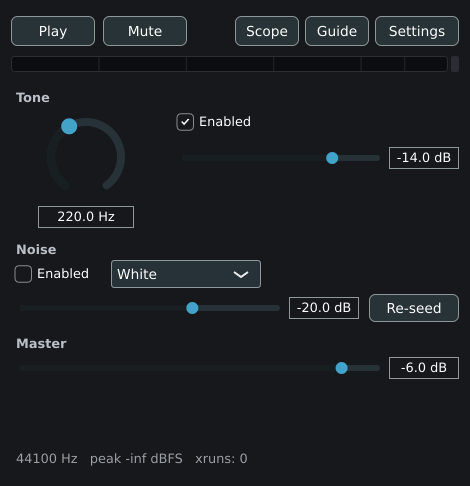
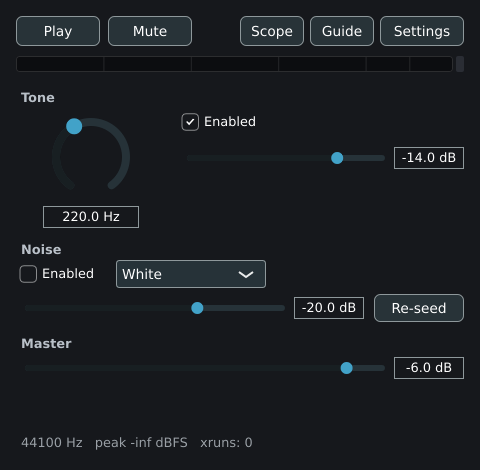
refactor(gui): oscilloscope collapses into the main window
Instead of a detached Scope window: the Scope button now toggles the
oscilloscope in place between the toolbar and the meter, and the window
grows/shrinks (setContentComponentSize) so nothing overlaps. The expanded state
persists. Removes gui::ScopeView; the Oscilloscope stops its timer while hidden.

diff --git a/src/app/MainComponent.cpp b/src/app/MainComponent.cpp
@@ -4,7 +4,6 @@
 #include "dsp/NoiseColour.h"
 #include "gui/DetachedWindow.h"
 #include "gui/GuideView.h"
-#include "gui/ScopeView.h"
 #include "gui/SettingsComponent.h"
 
 #include <initializer_list>
@@ -23,7 +22,11 @@ constexpr auto kNoiseEnabledKey = "noiseEnabled";
 constexpr auto kNoiseColourKey = "noiseColour";
 constexpr auto kMasterGainKey = "masterGainDb";
 constexpr auto kLimiterKey = "limiterEnabled";
+constexpr auto kScopeExpandedKey = "scopeExpanded";
 constexpr auto kAudioStateKey = "audioDeviceState";
+
+constexpr int kBaseHeight = 470;       // window height with the scope collapsed
+constexpr int kScopeBlockHeight = 116; // extra height when the scope is expanded (100 + gap)
 
 void styleHeading(juce::Label& label, const juce::String& text)
 {
@@ -42,6 +45,7 @@ void configureGainSlider(juce::Slider& slider)
 } // namespace
 
 MainComponent::MainComponent()
+    : oscilloscope_([this](float* dst, int count) { engine_.readScope(dst, count); })
 {
     juce::PropertiesFile::Options options;
     options.applicationName = "Noisefield";
@@ -67,9 +71,10 @@ MainComponent::MainComponent()
         masterMuteButton_.setButtonText(muted ? "Muted" : "Mute");
     };
 
+    scopeButton_.setClickingTogglesState(true);
     scopeButton_.onClick = [this]
     {
-        openScopeWindow();
+        setScopeExpanded(scopeButton_.getToggleState());
     };
     guideButton_.onClick = [this]
     {
@@ -156,6 +161,7 @@ MainComponent::MainComponent()
                                                                       &scopeButton_,
                                                                       &guideButton_,
                                                                       &settingsButton_,
+                                                                      &oscilloscope_,
                                                                       &meter_,
                                                                       &toneHeading_,
                                                                       &toneEnableButton_,
@@ -171,7 +177,10 @@ MainComponent::MainComponent()
                                                                       &statusLabel_})
         addAndMakeVisible(c);
 
-    setSize(470, 486);
+    oscilloscope_.setVisible(scopeExpanded_);
+    scopeButton_.setToggleState(scopeExpanded_, juce::dontSendNotification);
+
+    setSize(480, kBaseHeight + (scopeExpanded_ ? kScopeBlockHeight : 0));
     startTimerHz(30);
 }
 
@@ -180,9 +189,21 @@ MainComponent::~MainComponent()
     stopTimer();
     settingsWindow_.reset();
     guideWindow_.reset();
-    scopeWindow_.reset();
     saveSettings();
     engine_.shutdown();
+}
+
+void MainComponent::setScopeExpanded(bool expanded)
+{
+    scopeExpanded_ = expanded;
+    oscilloscope_.setVisible(expanded);
+    scopeButton_.setToggleState(expanded, juce::dontSendNotification);
+
+    const int target = kBaseHeight + (expanded ? kScopeBlockHeight : 0);
+    if (auto* window = findParentComponentOfClass<juce::ResizableWindow>())
+        window->setContentComponentSize(getWidth(), target);
+    else
+        setSize(getWidth(), target);
 }
 
 void MainComponent::openSettingsWindow()
@@ -209,19 +230,6 @@ void MainComponent::openGuideWindow()
         "Noisefield — Guide", std::make_unique<gui::GuideView>(), [this] { guideWindow_.reset(); });
 }
 
-void MainComponent::openScopeWindow()
-{
-    if (scopeWindow_ != nullptr)
-    {
-        scopeWindow_->toFront(true);
-        return;
-    }
-    auto view = std::make_unique<gui::ScopeView>([this](float* dst, int count)
-                                                 { engine_.readScope(dst, count); });
-    scopeWindow_ = std::make_unique<gui::DetachedWindow>(
-        "Noisefield — Scope", std::move(view), [this] { scopeWindow_.reset(); });
-}
-
 void MainComponent::loadSettings()
 {
     auto* store = appProperties_.getUserSettings();
@@ -246,6 +254,8 @@ void MainComponent::loadSettings()
 
     params().limiterEnabled.store(store->getBoolValue(kLimiterKey, params().limiterEnabled.load()),
                                   std::memory_order_relaxed);
+
+    scopeExpanded_ = store->getBoolValue(kScopeExpandedKey, false);
 }
 
 void MainComponent::saveSettings()
@@ -260,6 +270,7 @@ void MainComponent::saveSettings()
     store->setValue(kNoiseColourKey, noiseColourBox_.getSelectedId() - 1);
     store->setValue(kMasterGainKey, masterGainSlider_.getValue());
     store->setValue(kLimiterKey, params().limiterEnabled.load(std::memory_order_relaxed));
+    store->setValue(kScopeExpandedKey, scopeExpanded_);
 
     if (auto stateXml = engine_.deviceManager().createStateXml())
         store->setValue(kAudioStateKey, stateXml.get());
@@ -318,6 +329,11 @@ void MainComponent::resized()
     scopeButton_.setBounds(transport.removeFromRight(64));
 
     area.removeFromTop(10);
+    if (scopeExpanded_)
+    {
+        oscilloscope_.setBounds(area.removeFromTop(kScopeBlockHeight - 16));
+        area.removeFromTop(16);
+    }
     meter_.setBounds(area.removeFromTop(16));
     area.removeFromTop(16);
 

diff --git a/src/app/MainComponent.h b/src/app/MainComponent.h
@@ -2,6 +2,7 @@
 
 #include "engine/AudioEngine.h"
 #include "gui/LevelMeter.h"
+#include "gui/Oscilloscope.h"
 
 #include <juce_gui_basics/juce_gui_basics.h>
 
@@ -10,10 +11,10 @@
 namespace noisefield::app
 {
 
-/// Root content component: transport, a tone source (frequency + level), a noise source
-/// (colour + level) and a master level, with a level meter. The soft limiter and audio-device
-/// settings, the oscilloscope, and the user guide each live in their own detached window.
-/// Control values persist between runs.
+/// Root content component: transport, a collapsible oscilloscope, a level meter, a tone
+/// source (frequency + level), a noise source (colour + level) and a master level. The soft
+/// limiter and audio-device settings, and the user guide, live in their own detached windows.
+/// Control values (and the scope's expanded state) persist between runs.
 class MainComponent final : public juce::Component, private juce::Timer
 {
 public:
@@ -31,7 +32,7 @@ private:
     void pushAllParametersToEngine();
     void openSettingsWindow();
     void openGuideWindow();
-    void openScopeWindow();
+    void setScopeExpanded(bool expanded);
 
     engine::EngineParameters& params()
     {
@@ -46,6 +47,7 @@ private:
     juce::TextButton scopeButton_{"Scope"};
     juce::TextButton guideButton_{"Guide"};
     juce::TextButton settingsButton_{"Settings"};
+    gui::Oscilloscope oscilloscope_;
     gui::LevelMeter meter_;
 
     juce::Label toneHeading_;
@@ -64,9 +66,10 @@ private:
 
     juce::Label statusLabel_;
 
+    bool scopeExpanded_ = false;
+
     std::unique_ptr<juce::DocumentWindow> settingsWindow_;
     std::unique_ptr<juce::DocumentWindow> guideWindow_;
-    std::unique_ptr<juce::DocumentWindow> scopeWindow_;
 
     JUCE_DECLARE_NON_COPYABLE_WITH_LEAK_DETECTOR(MainComponent)
 };

diff --git a/src/gui/Oscilloscope.cpp b/src/gui/Oscilloscope.cpp
@@ -9,7 +9,14 @@ Oscilloscope::Oscilloscope(std::function<void(float*, int)> fillLatest)
     : fillLatest_(std::move(fillLatest)), window_(static_cast<size_t>(kWindow), 0.0f)
 {
     setInterceptsMouseClicks(false, false);
-    startTimerHz(30);
+}
+
+void Oscilloscope::visibilityChanged()
+{
+    if (isVisible())
+        startTimerHz(30);
+    else
+        stopTimer();
 }
 
 void Oscilloscope::timerCallback()

diff --git a/src/app/Main.cpp b/src/app/Main.cpp
@@ -54,7 +54,7 @@ private:
             setUsingNativeTitleBar(true);
             setContentOwned(new MainComponent(), true);
             setResizable(true, true);
-            setResizeLimits(480, 320, 4000, 3000);
+            setResizeLimits(460, 460, 1200, 1200);
             centreWithSize(getWidth(), getHeight());
             setVisible(true);
         }

diff --git a/src/gui/Oscilloscope.h b/src/gui/Oscilloscope.h
@@ -17,6 +17,7 @@ public:
     explicit Oscilloscope(std::function<void(float*, int)> fillLatest);
 
     void paint(juce::Graphics& g) override;
+    void visibilityChanged() override;
 
 private:
     void timerCallback() override;

diff --git a/docs/guide.md b/docs/guide.md
@@ -24,15 +24,16 @@ next time.
   turns red at 0 dBFS. The small block on the right is a clip latch: it lights red if the
   signal hits 0 dBFS and clears itself after a few quiet seconds. The status line shows the
   current peak in dBFS.
-- **Scope** — opens the oscilloscope window.
+- **Scope** — expands or collapses the oscilloscope, which appears just below the buttons.
+  The window grows and shrinks to fit; the state is remembered between runs.
 - **Guide** — opens this guide.
 - **Settings** — opens the audio-device settings and the soft limiter.
 
-### Scope window
+### Oscilloscope
 
-- **Oscilloscope** — the master output waveform over time. It is aligned to a rising
-  zero-crossing, so a steady tone appears to stand still. Use it to see the tone shape, how
-  much noise is mixed in, and whether the signal is being clipped by the limiter.
+The master output waveform over time, aligned to a rising zero-crossing so a steady tone
+appears to stand still. Use it to see the tone shape, how much noise is mixed in, and whether
+the signal is being clipped by the limiter. Toggle it with the **Scope** button.
 
 ### Tone
 

diff --git a/docs/backlog.md b/docs/backlog.md
@@ -86,8 +86,9 @@ filter each layer by band, mix with pan/mute/solo, and save/load the project and
 session timer with fades; LFO/ADSR/sweep modulation; installable AppImage and Flatpak.
 
 - [ ] **NF-060** (M) FFT spectrum analyzer (window, averaging, log scale) fed by a FIFO.
-- [x] **NF-061** (S) Oscilloscope with rising-zero-crossing trigger, in a detached Scope
-  window. Engine feeds it via `dsp::ScopeBuffer` (lock-free SPSC ring); `test_scope_buffer.cpp`.
+- [x] **NF-061** (S) Oscilloscope with rising-zero-crossing trigger, collapsible in the main
+  window (Scope button; window grows/shrinks to fit; state persists). Engine feeds it via
+  `dsp::ScopeBuffer` (lock-free SPSC ring); `test_scope_buffer.cpp`.
 - [~] **NF-062** (S) Master meter: dBFS scale ticks, peak hold, clip latch, peak-dBFS readout
   in the status line. Per-layer meters wait for the M3 layer rework (NF-041/048).
 - [ ] **NF-063** (M) WAV/FLAC recorder of the master bus (streaming to disk from a separate thread).

diff --git a/README.md b/README.md
@@ -25,8 +25,9 @@ Noisefield is built 100% AI-assisted.
 </p>
 
 <p align="center">
-  <img src="docs/images/scope.png" alt="Noisefield oscilloscope window" width="440"><br>
-  <em>Scope window: the master-output oscilloscope, aligned to a rising zero-crossing.</em>
+  <img src="docs/images/main-scope.png" alt="Noisefield with the oscilloscope expanded" width="440"><br>
+  <em>The Scope button expands a master-output oscilloscope in place, aligned to a rising
+  zero-crossing; the window resizes to fit.</em>
 </p>
 
 <p align="center">
